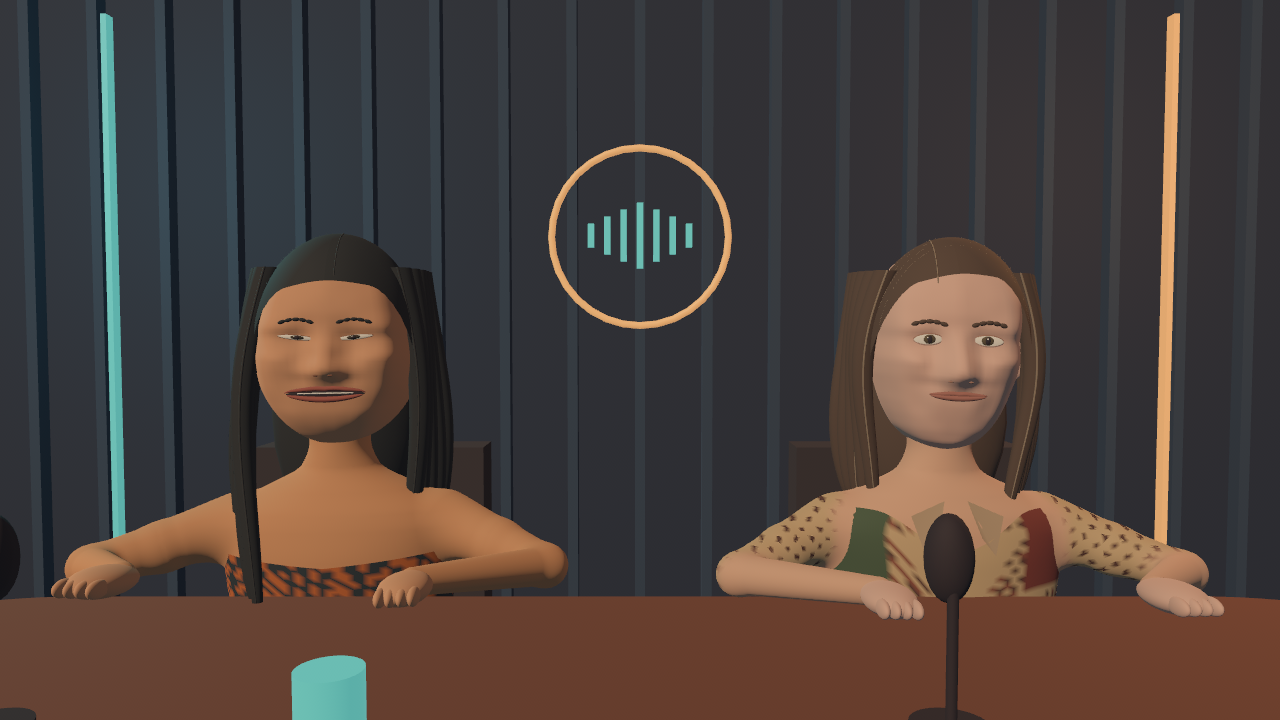
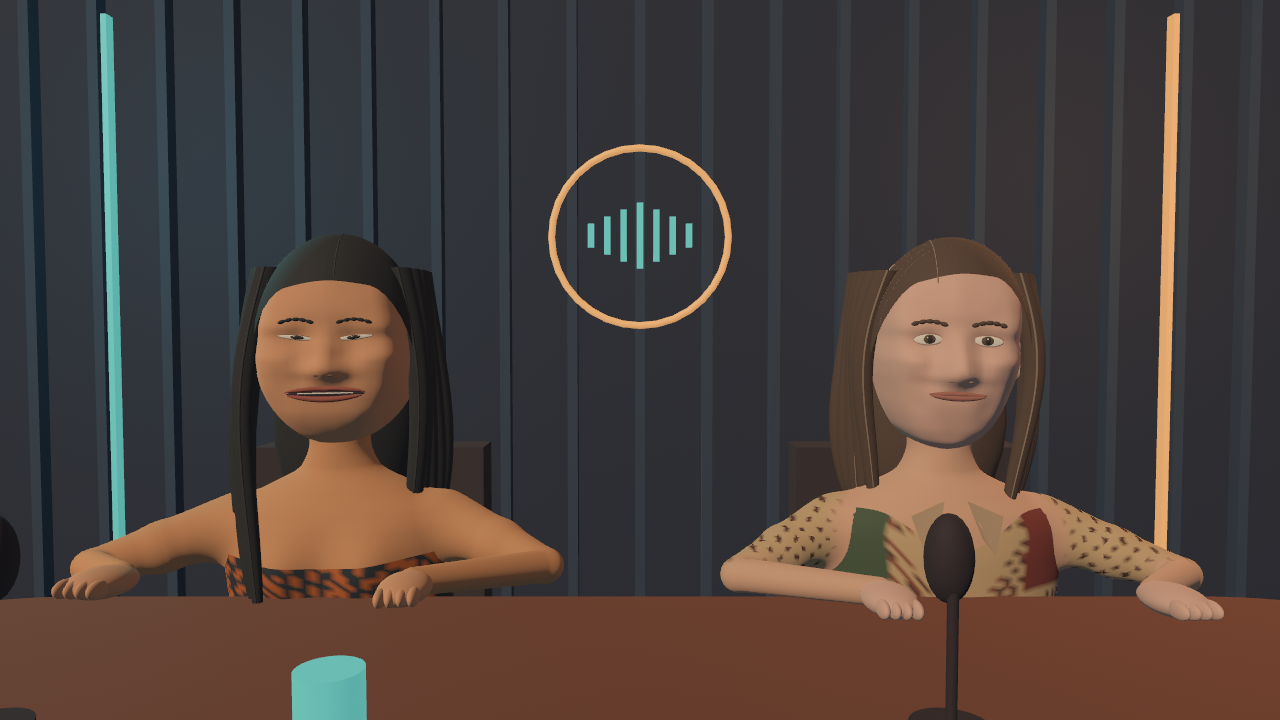
Refine elbow taper and shape paired chest contours

diff --git a/src/studio/body.rs b/src/studio/body.rs
@@ -94,13 +94,28 @@ fn profile_slope(sections: &[[f32; 3]], index: usize, component: usize) -> f32 {
 
 pub fn front(index: usize, horizontal: f32, height: f32) -> f32 {
     let profile = profile(index, height);
-    profile.y * (1.0 - (horizontal / profile.x).powi(2)).max(0.0).sqrt()
+    let depth = profile.y * (1.0 - (horizontal / profile.x).powi(2)).max(0.0).sqrt();
+    depth + chest_offset(index, horizontal, height, depth)
+}
+
+pub fn chest_offset(index: usize, horizontal: f32, height: f32, depth: f32) -> f32 {
+    if index != 0 {
+        return 0.0;
+    }
+    let left = (-((horizontal + 0.11) / 0.075).powi(2)).exp();
+    let right = (-((horizontal - 0.11) / 0.075).powi(2)).exp();
+    let center = (-(horizontal / 0.045).powi(2)).exp();
+    let vertical = (-((height - 0.46) / 0.085).powi(2)).exp()
+        * smoothstep((height - 0.30) / 0.06)
+        * (1.0 - smoothstep((height - 0.55) / 0.09));
+    (0.040 * (left + right) - 0.006 * center) * vertical * smoothstep(depth / 0.06)
 }
 
 fn torso_distance(index: usize, point: Vec3) -> f32 {
     let profile = profile(index, point.y);
-    let radial = (Vec2::new(point.x / profile.x, point.z / profile.y).length() - 1.0)
-        * profile.min_element();
+    let depth = point.z - chest_offset(index, point.x, point.y, point.z);
+    let radial =
+        (Vec2::new(point.x / profile.x, depth / profile.y).length() - 1.0) * profile.min_element();
     radial.max(0.34 - point.y).max(point.y - 0.83)
 }
 
@@ -124,11 +139,11 @@ fn arm_distance(point: Vec3, side: f32) -> f32 {
     let wrist = Vec3::new(-side * 0.01, -0.055, 0.46);
     let upper_arm = smooth_union(
         capsule(point, shoulder, upper, 0.073, 0.061),
-        capsule(point, upper, elbow, 0.061, 0.047),
+        capsule(point, upper, elbow, 0.061, 0.040),
         0.018,
     );
-    let lower_arm = capsule(point, elbow, wrist, 0.047, 0.029);
-    smooth_union(upper_arm, lower_arm, 0.024)
+    let lower_arm = capsule(point, elbow, wrist, 0.040, 0.029);
+    smooth_union(upper_arm, lower_arm, 0.010)
 }
 
 fn distance(index: usize, point: Vec3) -> f32 {
@@ -345,6 +360,55 @@ mod tests {
     use super::*;
 
     #[test]
+    fn elbows_do_not_form_a_rounded_joint_bulge() {
+        for side in [-1.0, 1.0] {
+            let upper = Vec3::new(side * 0.12, -0.055, 0.075);
+            let elbow = Vec3::new(side * 0.24, -0.095, 0.16);
+            let wrist = Vec3::new(-side * 0.01, -0.055, 0.46);
+            let normal = (upper - elbow).cross(wrist - elbow).normalize();
+            let center = shoulder(side) + elbow;
+            for direction in [-1.0, 1.0] {
+                assert!(arm_distance(center + normal * direction * 0.040, side) < 0.0);
+                assert!(arm_distance(center + normal * direction * 0.043, side) > 0.0);
+            }
+        }
+    }
+
+    #[test]
+    fn chest_has_two_subtle_front_contours_and_a_central_valley() {
+        for height in [0.43, 0.46, 0.49] {
+            let center = front(0, 0.0, height);
+            let left = front(0, -0.11, height);
+            let right = front(0, 0.11, height);
+            assert!((left - right).abs() < 0.000001);
+            assert!(left > center + 0.020);
+            assert!(left < 0.20);
+            assert!(torso_distance(0, Vec3::new(0.0, height, center)).abs() < 0.000001);
+            assert!(torso_distance(0, Vec3::new(0.11, height, right)).abs() < 0.000001);
+        }
+        for horizontal in [-0.2, -0.11, 0.0, 0.11, 0.2] {
+            assert_eq!(chest_offset(0, horizontal, 0.46, -0.15), 0.0);
+            assert_eq!(chest_offset(0, horizontal, 0.70, 0.15), 0.0);
+            assert_eq!(chest_offset(1, horizontal, 0.46, 0.15), 0.0);
+        }
+        let garment = super::super::portrait::garment(0);
+        let Some(VertexAttributeValues::Float32x3(positions)) =
+            garment.attribute(Mesh::ATTRIBUTE_POSITION)
+        else {
+            panic!("missing garment positions")
+        };
+        for position in positions {
+            let point = Vec3::from_array(*position);
+            if point.y >= 0.35 && point.z > 0.0 {
+                assert!(
+                    torso_distance(0, point) > 0.0,
+                    "garment cuts into chest: {point:?}"
+                );
+            }
+        }
+    }
+
+    #[test]
     fn forearms_taper_from_the_single_elbow_to_the_wrist_without_an_extra_joint() {
         for side in [-1.0, 1.0] {
             let elbow = Vec3::new(side * 0.24, -0.095, 0.16);
@@ -356,7 +420,7 @@ mod tests {
             for step in 30..=90 {
                 let fraction = step as f32 / 100.0;
                 let center = shoulder(side) + elbow.lerp(wrist, fraction);
-                let expected_radius = 0.047 + fraction * (0.029 - 0.047);
+                let expected_radius = 0.040 + fraction * (0.029 - 0.040);
                 let mut largest_radius = 0.0_f32;
                 for segment in 0..32 {
                     let angle = segment as f32 / 32.0 * std::f32::consts::TAU;

diff --git a/src/studio/portrait.rs b/src/studio/portrait.rs
@@ -400,7 +400,9 @@ pub fn garment(index: usize) -> Mesh {
             let width = profile.x + 0.004;
             let depth = profile.y + 0.004;
             let horizontal = width * angle.sin();
-            positions.push([horizontal, height, depth * angle.cos()]);
+            let depth = depth * angle.cos();
+            let depth = depth + super::body::chest_offset(index, horizontal, height, depth);
+            positions.push([horizontal, height, depth]);
             let color = if index == 0 {
                 let motif = (horizontal * 115.0 + (height * 37.0).sin() * 2.8).sin()
                     * (height * 95.0 + (horizontal * 40.0).cos() * 2.0).cos();

diff --git a/README.md b/README.md
@@ -24,6 +24,8 @@ OBS records the app window and the two audio channels.
   than intersecting ellipsoids, with tapered forearms and a broader shoulder
   profile for host 2. Three-joint GPU skinning blends shoulder gestures into
   the torso without opening gaps; the surface is generated only at startup.
+  Slimmer elbow transitions avoid rounded joint knobs. Host 1's chest has
+  two gentle contours with a shallow central valley, shared by skin and top.
 - Independent audio-driven mouth opening and vowel-like lip shapes, with a
   noise threshold and smooth transitions. Local spectral/formant analysis approximates
   open A, wide E/I and rounded O/U shapes; it is not phoneme recognition.
